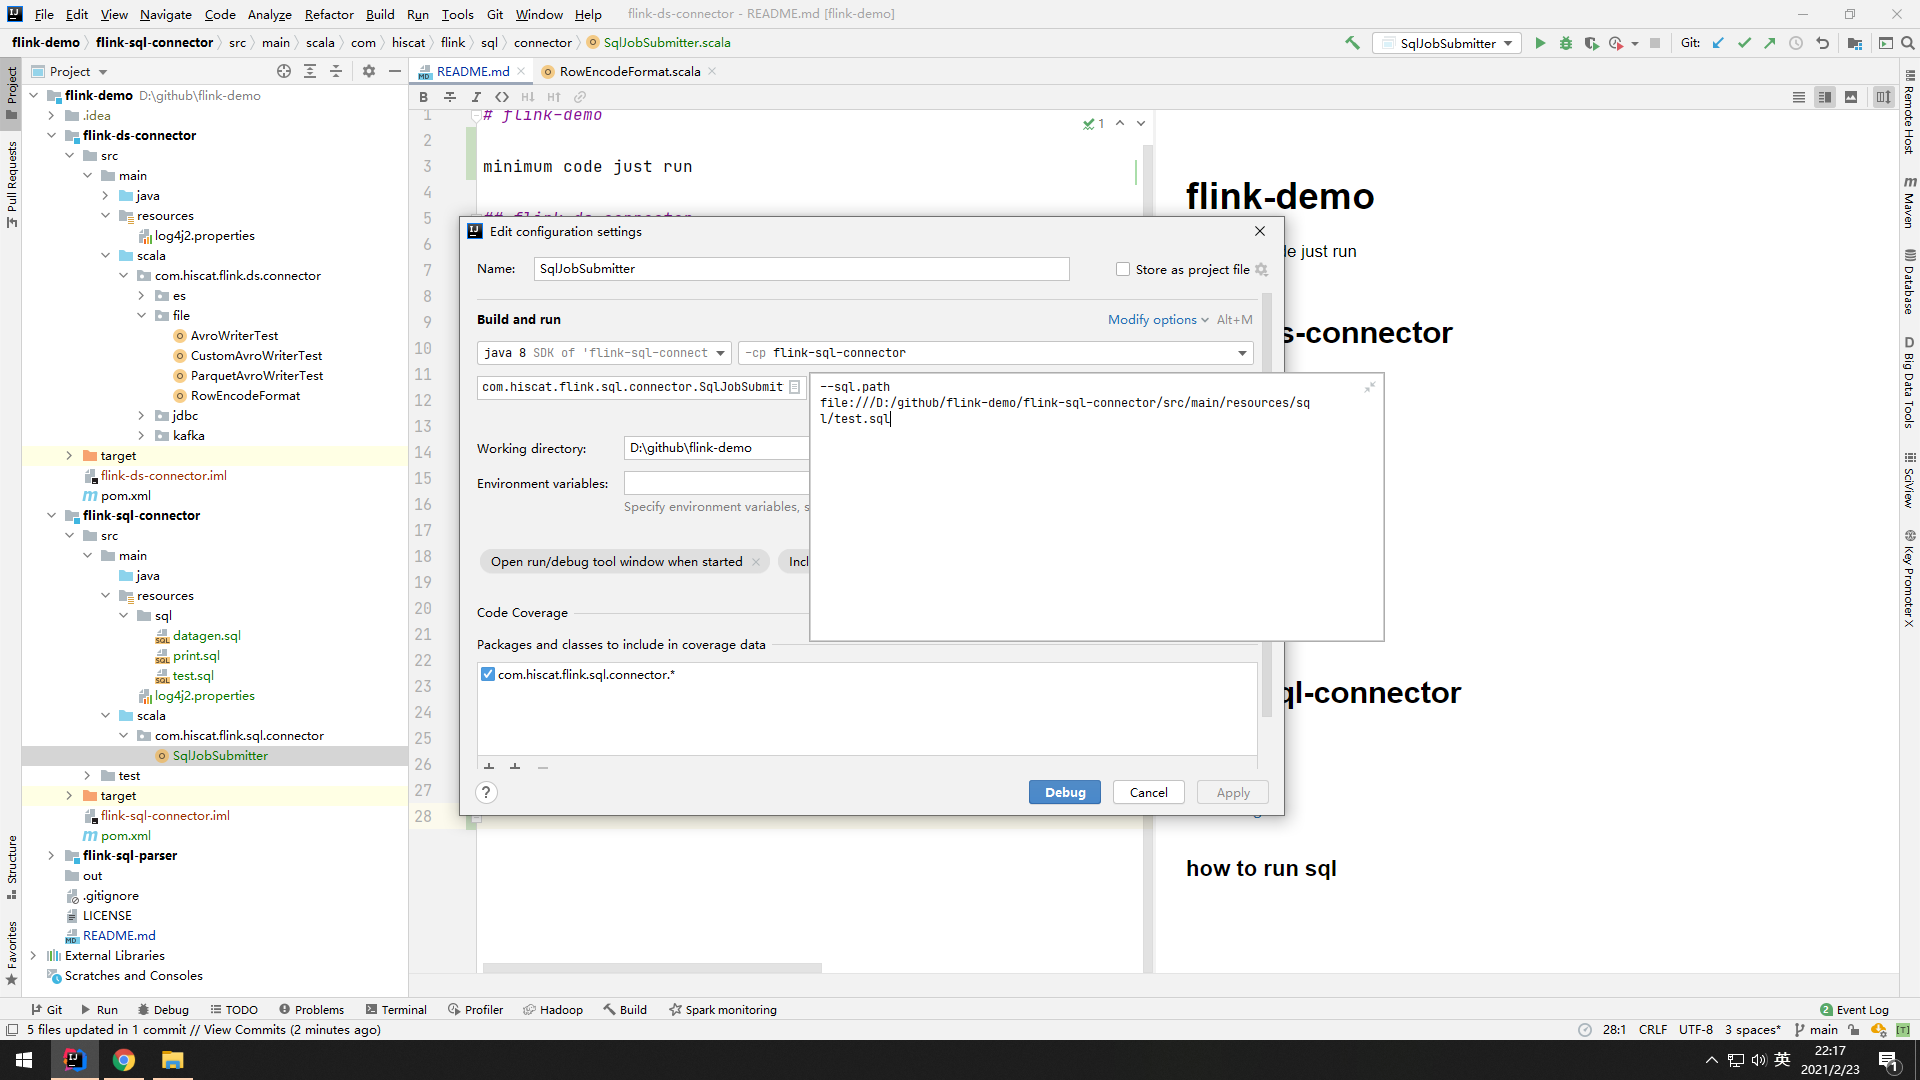
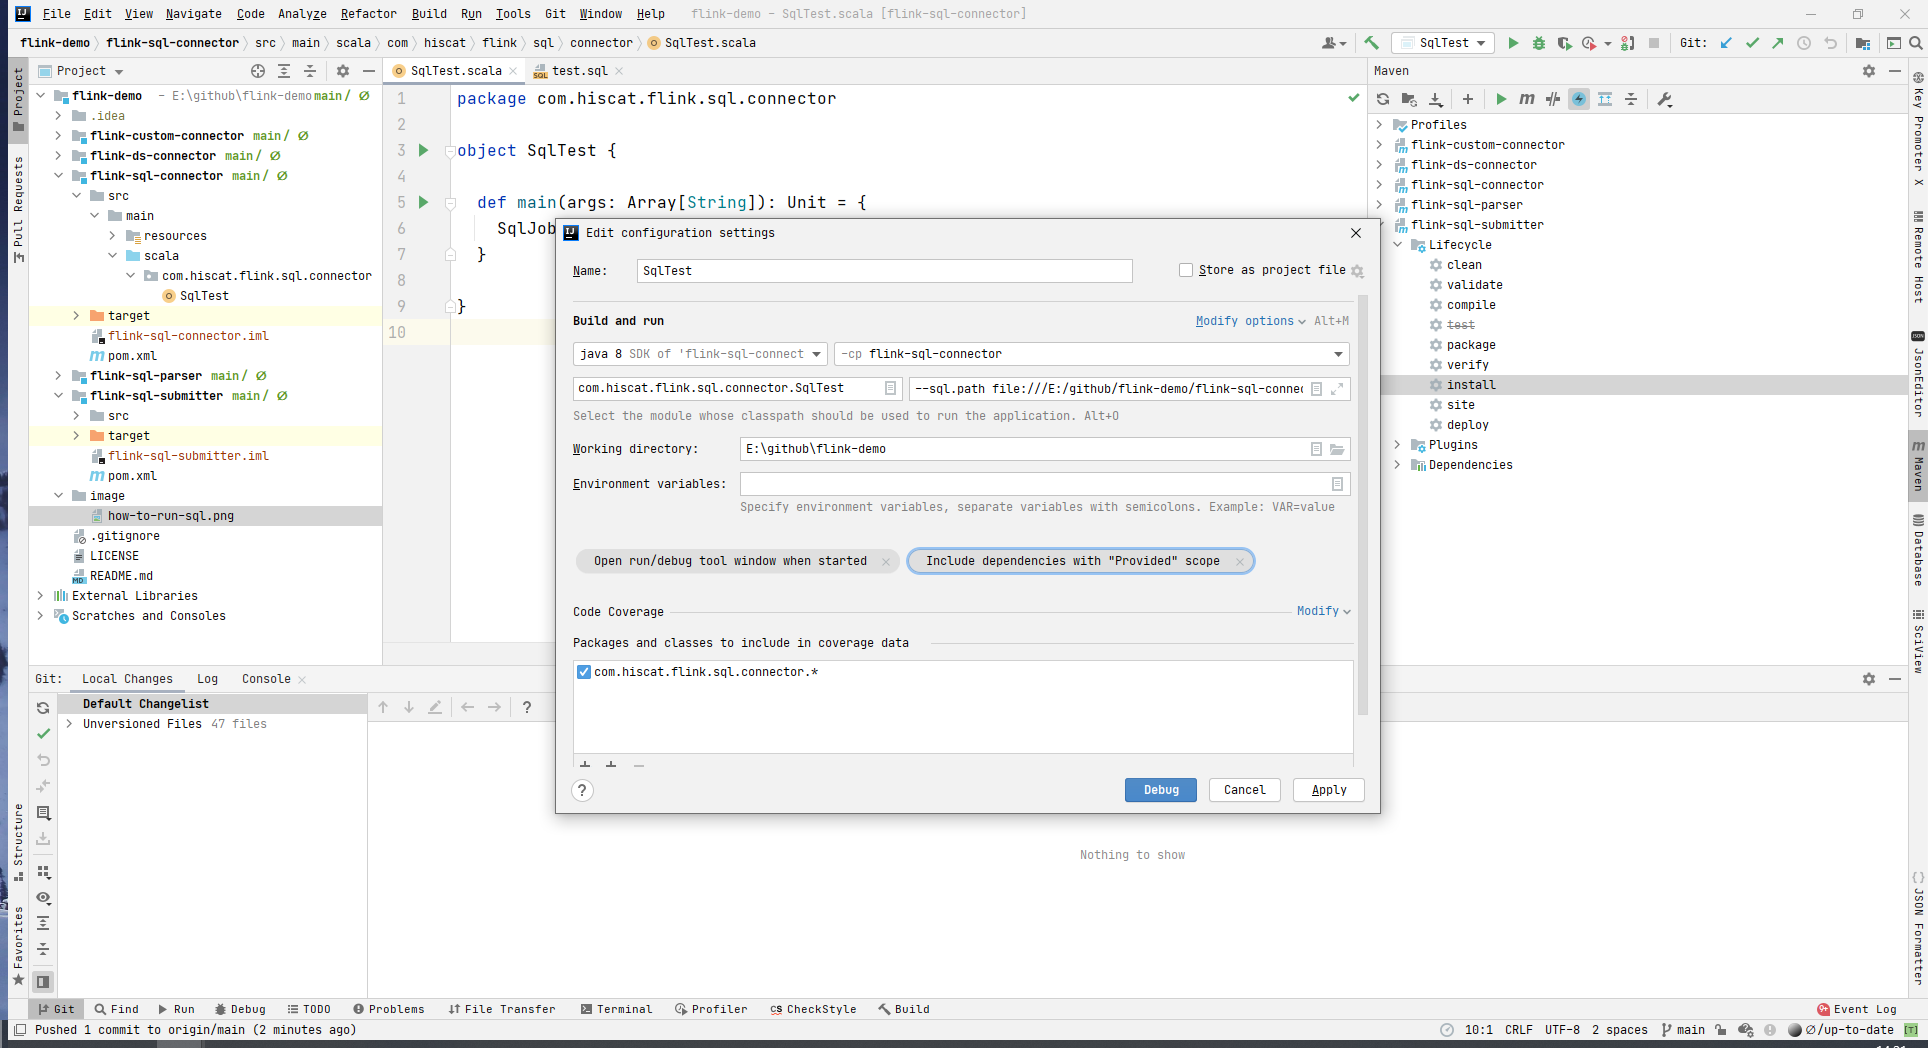
update readme

Changed region(s): [[0.0, 0.0, 1.0, 1.0], [0.5625, 0.0916, 0.5938, 0.1221]]

diff --git a/README.md b/README.md
@@ -49,7 +49,7 @@ SQL usage
 
 * cd flink-sql-parser
 * mvn install -Dskip.Tests
-* run [ SqlJobSubmitter](./flink-sql-connector/src/main/scala/com/hiscat/flink/sql/connector/SqlJobSubmitter.scala )
+* run [ SqlTest ](./flink-sql-connector/src/main/scala/com/hiscat/flink/sql/connector/SqlTest.scala )
    *  with --sql.path your sql file path
 
 ![ how to run sql](./image/how-to-run-sql.png )
